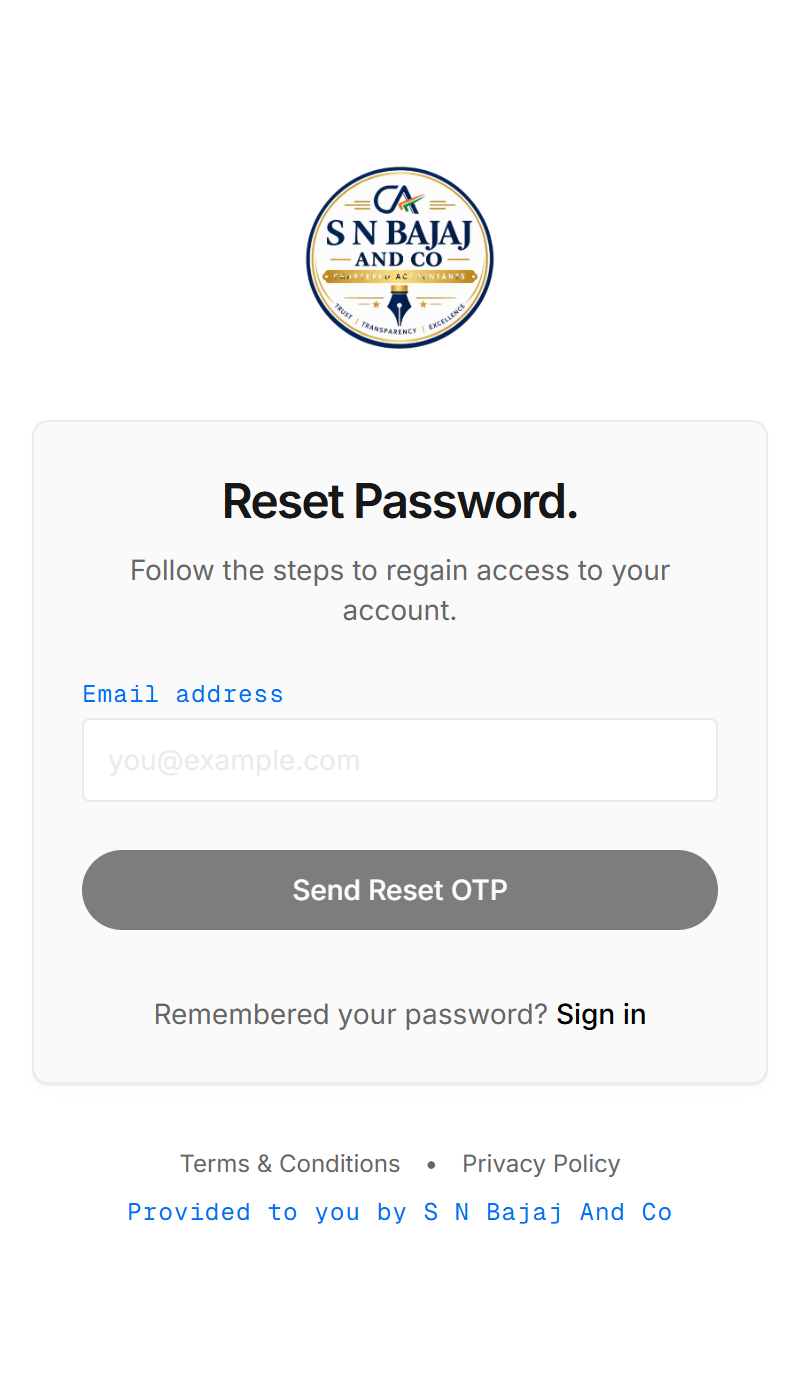
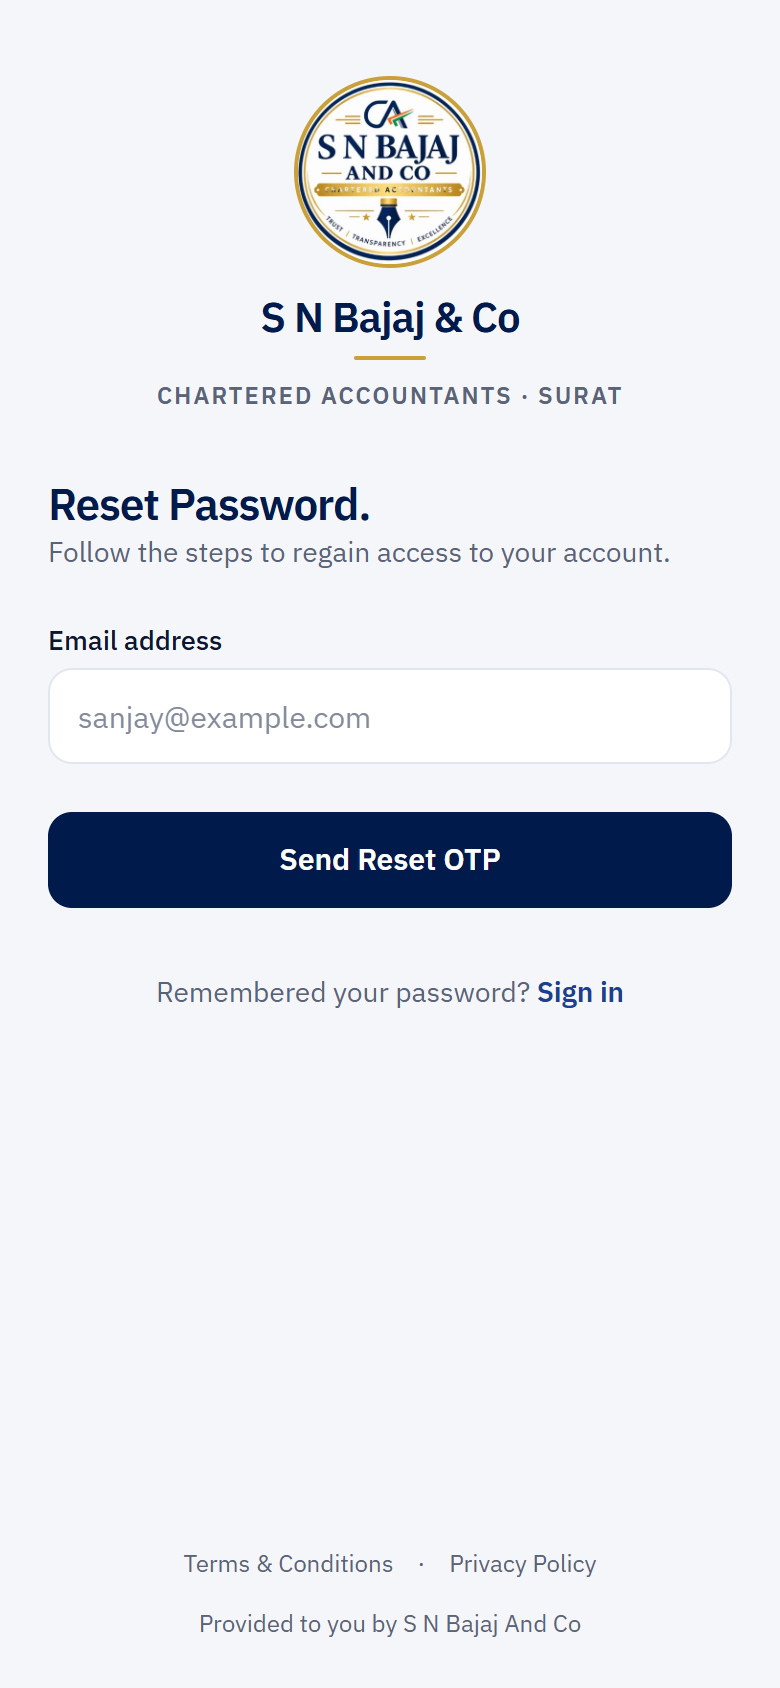
docs(readme): new client app and admin panel screenshots
Retaken after the navy/gold redesign with demo data (no real client
details). Adds an Admin Panel section: dashboard (light and dark),
clients, client profile tabs, staff access editor, reports and rent
agreements. Updates the admin feature list for per-area staff access.

diff --git a/README.md b/README.md
@@ -48,10 +48,41 @@ A modern, full-stack practice management and client communication platform built
 | <img src="screenshots/app.snbajaj.com_login.png" alt="Client Login" width="400" /> | <img src="screenshots/app.snbajaj.com_forgot-password.png" alt="Password Reset" width="400" /> |
 | *Secure credential sign-in for registered clients* | *Email OTP verification for seamless password recovery* |
 
-| Registration (Step 1: Email) | Registration (Step 2: Profile & OTP) |
+| Registration | |
 |:---:|:---:|
-| <img src="screenshots/app.snbajaj.com_signup.png" alt="Client Signup Step 1" width="400" /> | <img src="screenshots/app.snbajaj.com_signup_detial.png" alt="Client Signup Step 2" width="400" /> |
-| *Initial signup with email OTP verification dispatch* | *OTP validation, personal details, and account setup* |
+| <img src="screenshots/app.snbajaj.com_signup.png" alt="Client Signup" width="400" /> | |
+| *Signup with email OTP verification* | |
+
+### Admin Panel
+
+*Navy and gold brand shared with the client app, a grouped sidebar with live counts, and a Light / Dark / System theme switch.*
+
+| Dashboard | Dashboard (Dark Mode) |
+|:---:|:---:|
+| <img src="screenshots/admin_dashboard.png" alt="Admin Dashboard" width="480" /> | <img src="screenshots/admin_dashboard_dark.png" alt="Admin Dashboard in dark mode" width="480" /> |
+| *Stat cards, recent activity, due-date countdown and a 6-month documents chart* | *Every screen works in light and dark mode* |
+
+| Clients | Client Profile |
+|:---:|:---:|
+| <img src="screenshots/admin_clients.png" alt="Client Directory" width="480" /> | <img src="screenshots/admin_client_profile.png" alt="Client Profile Tabs" width="480" /> |
+| *Searchable client directory with type and status chips* | *Profile, Services, Documents, ITR and Family tabs* |
+
+| Staff & Permissions | Staff Access Editor |
+|:---:|:---:|
+| <img src="screenshots/admin_staff.png" alt="Staff list" width="480" /> | <img src="screenshots/admin_staff_access.png" alt="Staff access side panel" width="480" /> |
+| *Staff accounts with role and status* | *Per-area access: No access / Can view / Can view and change* |
+
+| Reports | Rent Agreements |
+|:---:|:---:|
+| <img src="screenshots/admin_reports.png" alt="Reports" width="480" /> | <img src="screenshots/admin_rent_agreements.png" alt="Rent Agreements" width="480" /> |
+| *Pending report requests on top, then the sent-report history* | *Agreement totals, drafts and generated documents* |
+
+| Admin Sign-In | |
+|:---:|:---:|
+| <img src="screenshots/admin_login.png" alt="Admin Login" width="480" /> | |
+| *Staff sign-in* | |
+
+> Screenshots use demo data; names and contact details are not real clients.
 
 ---
 
@@ -68,10 +99,11 @@ A modern, full-stack practice management and client communication platform built
 - **Notification Hub**: Real-time alerts and status updates on submitted documents and published CA reports.
 
 ### 2. Admin Management Panel
-- **Client & Staff Oversight**: Full client directory with bulk Excel import (`import-clients.ts`), pre-registration auto-linking, and granular role-based permissions (`view_clients`, `upload_reports`, `send_reminders`, `manage_services`, `manage_tickets`, etc.).
+- **Client & Staff Oversight**: Full client directory with bulk Excel import (`import-clients.ts`), pre-registration auto-linking, and per-area staff access (13 permission keys such as `view_clients` / `manage_clients`, `view_reports` / `manage_reports`, `manage_whatsapp`) checked on every request, so removing access takes effect immediately.
 - **Compliance Task Checklist**: Automated monthly & quarterly task generation for GSTR-1, GSTR-3B, IFF, Sales/Purchase bills, and GST payment tracking.
 - **Visual Filing Schedule Editor**: Intuitive calendar and deadline configuration without editing raw JSON schedules.
 - **Automated Rent Agreements**: Dynamic DOCX generation engine using `docxtemplater` & `pizzip`, WYSIWYG preview, and optional OnlyOffice integration.
+- **Redesigned UI**: Navy and gold brand matching the client app, light / dark / system themes, forms in a side panel, and phone-friendly layouts.
 - **Audit Logs**: Immutable logging of administrative actions, data edits, and reminder dispatches.
 
 ### 3. WhatsApp AI Support Desk
